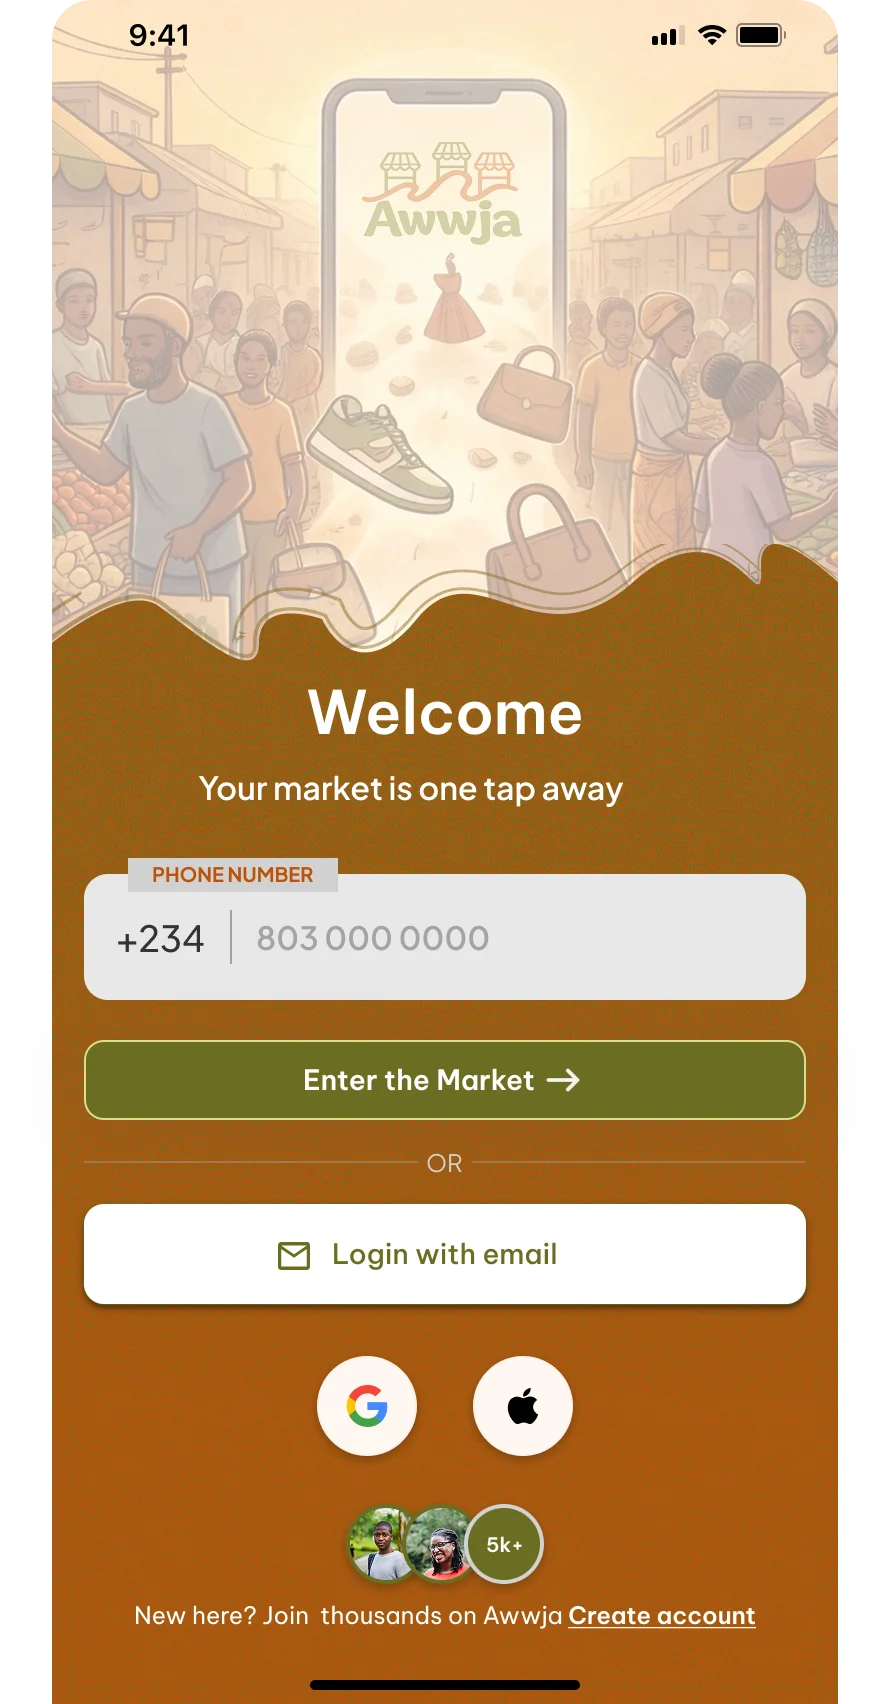
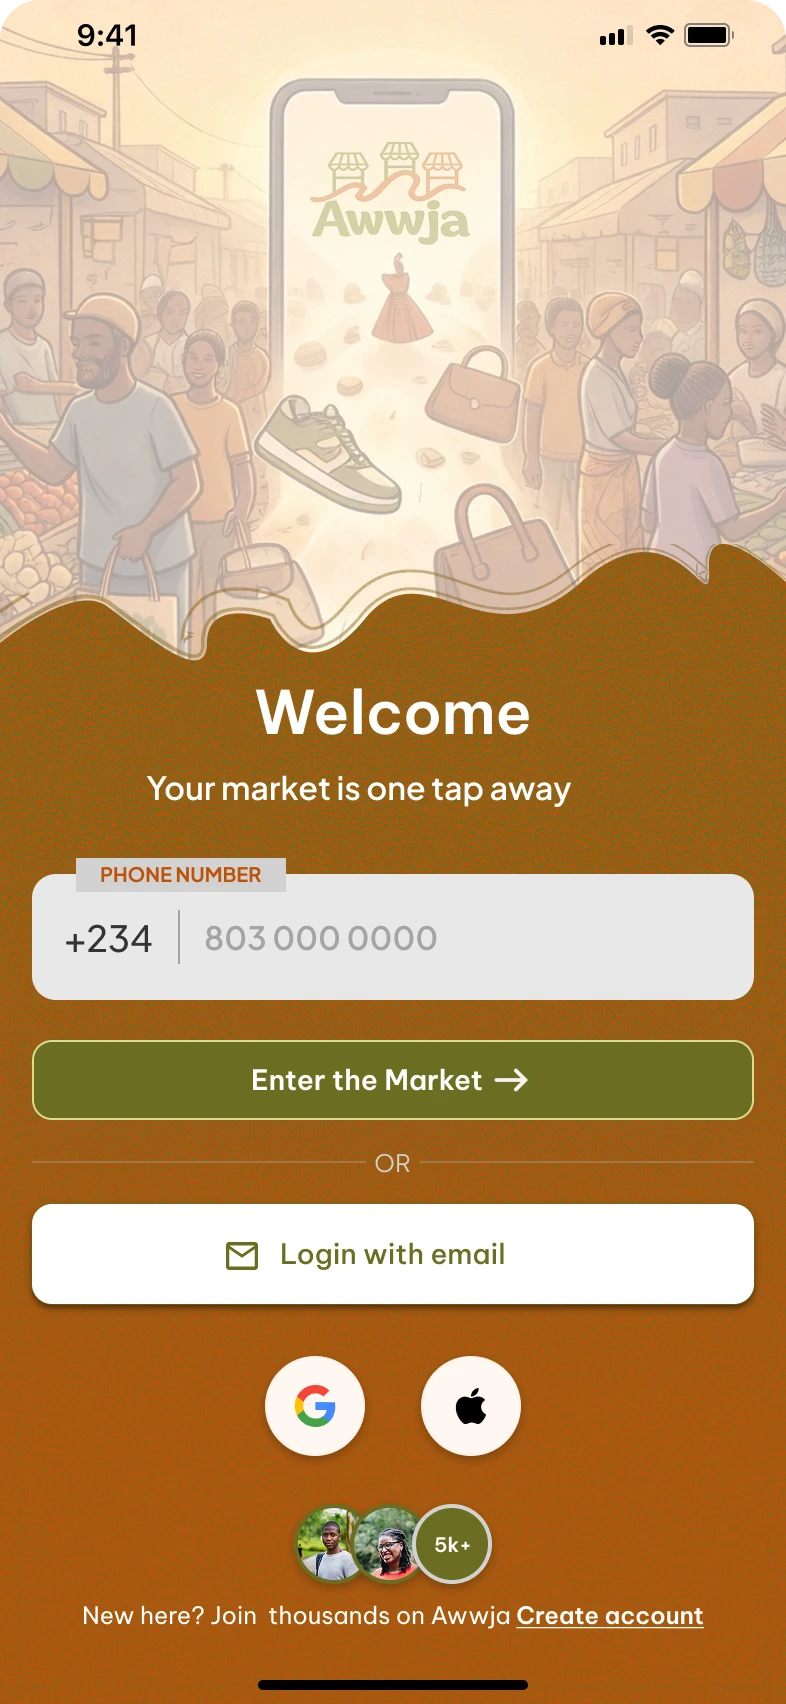
feat: fix awwja-5 crop, add scan2supper before/after evolution, and update about intro headline

diff --git a/src/utils/caseStudies.jsx b/src/utils/caseStudies.jsx
@@ -157,16 +157,21 @@ export const CASE_STUDIES = [
             label: 'Product\u00A0005',
             name: 'Scan2Supper',
             color: '#10B981', // Fresh Culinary Emerald
-            principle: 'Mascot-guided culinary onboarding & zero-stress kitchen entry',
+            principle: 'The Mascot Shift: Transforming sterile utility into warm culinary momentum',
             principles: [
-              { name: 'Friendly Mascot Guidance', detail: 'An expressive chef character acts as a warm emotional anchor throughout the flow, transforming dinner anxiety into an approachable, encouraging culinary journey.' },
-              { name: 'Zero-Waste Camera Scan', detail: 'De-stresses dinner by translating raw fridge ingredients and pantry staples into actionable recipes in seconds.' },
-              { name: 'Frictionless Entry & Guest Access', detail: 'Warm mascot sign-up offering quick Apple/Google authentication alongside 1-tap guest access so users can start cooking immediately.' },
-              { name: 'Celebratory Completion', detail: 'Positive emotional reinforcement on setup completion ("All Set, Foodie!") building immediate cooking excitement.' }
+              { name: 'Friendly Mascot Anchor', detail: 'An expressive, enthusiastic chef mascot replaces cold abstract vectors, serving as a warm emotional guide that dismantles dinner anxiety.' },
+              { name: 'Visual Camera Model (Snap → Match → Cook)', detail: 'De-stresses the kitchen by translating complex computer-vision camera scanning into a simple 3-step tactile diagram.' },
+              { name: 'Frictionless Guest Access', detail: 'Empathetic sign-up architecture where the mascot peeks over the auth sheet, offering 1-tap Apple/Google auth plus instant guest access so users can cook immediately without gatekeeping.' },
+              { name: 'Celebratory Reinforcement ("All Set, Foodie!")', detail: 'Closes onboarding with high-five celebration and enthusiastic positive reinforcement, priming users with confidence before they view their first recipe.' }
             ],
-            insight: 'Scan2Supper introduces an expressive culinary chef mascot that guides users step-by-step through pantry scanning, camera capture, and instant recipe generation. By pairing tactile visual workflows with friendly emotional guidance, the onboarding turns dinner decision fatigue into an engaging, stress-free cooking adventure.',
-            tags: ['Mascot-Led UX', 'Culinary Onboarding', 'AI Recipe Scanner', 'Zero Waste', 'Emotional Design'],
+            insight: 'Scan2Supper originally launched with a conventional, utilitarian onboarding flow—abstract geometric graphics, sterile input cards, and standard feature lists. While mechanically sound, it failed to solve the real psychological barrier: evening decision fatigue. Users staring into an uninspiring fridge after a long workday don\'t need more software forms; they need reassurance and gentle momentum.\n\nTo bridge this emotional gap, we completely reimagined the experience around a friendly, expressive culinary chef mascot. The mascot acts as a reassuring kitchen companion from the very first frame:\n\n• From Abstract Splash to Warm Welcome: Replacing sterile geometric cards with an animated chef bursting from an ingredient box ("Scan. Cook. Enjoy."), framing dinner preparation as delight rather than a chore.\n• From Dense Instructions to a 3-Step Visual Model: Turning complex camera permissions and AI ingredient scanning into an intuitive 3-step diagram ("Snap → Match → Cook") that instantly demystifies the scanner.\n• From Gatekept Sign-Up to Empathetic Access: Rather than blocking users behind rigid credentials, the mascot playfully peeks over the auth sheet, offering 1-tap social login plus instant "Continue as Guest" so hungry cooks can dive in without barrier.\n• Celebratory Finish ("All Set, Foodie!"): Reinforcing setup completion with high-energy positive feedback, igniting cooking excitement before entering the recipe feed.',
+            tags: ['Mascot-Led UX', 'Culinary Onboarding', 'AI Recipe Scanner', 'Emotional Design', 'Before & After'],
             status: 'complete',
+            beforeImage: '/assets/scan2supper-before.webp',
+            afterImage: '/assets/scan2supper-after.webp',
+            comparisonTitle: 'Evolution: Before vs. After (The Mascot Transformation)',
+            beforeCaption: 'Before: Abstract vectors, disconnected recipe book art, and sterile form fields that added mental friction before cooking.',
+            afterCaption: 'After: Mascot-guided culinary companion, intuitive 3-step scan model, 1-tap guest access, and celebratory launch.',
             fullCaseStudyUrl: '#',
             images: [
               '/assets/s2s-1.webp',

diff --git a/src/components/AboutCaseStudyModal.jsx b/src/components/AboutCaseStudyModal.jsx
@@ -485,6 +485,66 @@ export default function AboutCaseStudyModal({ project, onClose }) {
                               </div>
                             )}
 
+                            {/* Before & After Evolution Comparison */}
+                            {screen.beforeImage && screen.afterImage && (
+                              <div className="about-ob-evolution">
+                                <div className="about-ob-evolution-header">
+                                  <span
+                                    className="about-ob-evolution-tag"
+                                    style={{
+                                      color: screen.color || '#10B981',
+                                      borderColor: `${screen.color || '#10B981'}40`,
+                                      background: `${screen.color || '#10B981'}15`
+                                    }}
+                                  >
+                                    DESIGN EVOLUTION
+                                  </span>
+                                  <h4 className="about-ob-evolution-title">
+                                    {screen.comparisonTitle || 'Before vs. After (The Mascot Transformation)'}
+                                  </h4>
+                                </div>
+                                <div className="about-ob-evolution-grid">
+                                  <div className="about-ob-evolution-col before">
+                                    <div className="about-ob-evolution-badge-wrap">
+                                      <span className="about-ob-evolution-badge before">Before: Abstract & Sterile</span>
+                                    </div>
+                                    <div className="about-ob-evolution-frame">
+                                      <img
+                                        src={screen.beforeImage}
+                                        alt={`${screen.name} Before - Abstract UI`}
+                                        loading="lazy"
+                                        decoding="async"
+                                      />
+                                    </div>
+                                    <p className="about-ob-evolution-desc">
+                                      {screen.beforeCaption || 'Sterile inputs and abstract geometric vectors offering zero emotional reassurance to a tired cook.'}
+                                    </p>
+                                  </div>
+                                  <div className="about-ob-evolution-col after">
+                                    <div className="about-ob-evolution-badge-wrap">
+                                      <span
+                                        className="about-ob-evolution-badge after"
+                                        style={{ background: screen.color || '#10B981', color: '#FFFFFF' }}
+                                      >
+                                        After: Mascot-Guided Journey
+                                      </span>
+                                    </div>
+                                    <div className="about-ob-evolution-frame">
+                                      <img
+                                        src={screen.afterImage}
+                                        alt={`${screen.name} After - Mascot-Guided UI`}
+                                        loading="lazy"
+                                        decoding="async"
+                                      />
+                                    </div>
+                                    <p className="about-ob-evolution-desc">
+                                      {screen.afterCaption || 'An expressive culinary chef mascot anchoring the entire experience—from scanner to celebratory start.'}
+                                    </p>
+                                  </div>
+                                </div>
+                              </div>
+                            )}
+
                             {/* Insight & Principles */}
                             {screen.insight && (
                               <p className="about-ob-insight">

diff --git a/src/components/CaseStudyViewer.jsx b/src/components/CaseStudyViewer.jsx
@@ -315,6 +315,66 @@ function OnboardingCollectionBlock({ block }) {
                           </p>
                         )}
 
+                        {/* Before & After Evolution Comparison */}
+                        {screen.beforeImage && screen.afterImage && (
+                          <div className="ob-evolution" style={{ '--flow-color': flowColor }}>
+                            <div className="ob-evolution-header">
+                              <span
+                                className="ob-evolution-tag"
+                                style={{
+                                  color: flowColor,
+                                  borderColor: `${flowColor}40`,
+                                  background: `${flowColor}15`
+                                }}
+                              >
+                                DESIGN EVOLUTION
+                              </span>
+                              <h4 className="ob-evolution-title">
+                                {screen.comparisonTitle || 'Before vs. After (The Mascot Transformation)'}
+                              </h4>
+                            </div>
+                            <div className="ob-evolution-grid">
+                              <div className="ob-evolution-col before">
+                                <div className="ob-evolution-badge-wrap">
+                                  <span className="ob-evolution-badge before">Before: Abstract & Sterile</span>
+                                </div>
+                                <div className="ob-evolution-frame">
+                                  <img
+                                    src={screen.beforeImage}
+                                    alt={`${screen.name} Before - Abstract UI`}
+                                    loading="lazy"
+                                    decoding="async"
+                                  />
+                                </div>
+                                <p className="ob-evolution-desc">
+                                  {screen.beforeCaption || 'Sterile inputs and abstract geometric vectors offering zero emotional reassurance to a tired cook.'}
+                                </p>
+                              </div>
+                              <div className="ob-evolution-col after">
+                                <div className="ob-evolution-badge-wrap">
+                                  <span
+                                    className="ob-evolution-badge after"
+                                    style={{ background: flowColor, color: '#FFFFFF' }}
+                                  >
+                                    After: Mascot-Guided Journey
+                                  </span>
+                                </div>
+                                <div className="ob-evolution-frame">
+                                  <img
+                                    src={screen.afterImage}
+                                    alt={`${screen.name} After - Mascot-Guided UI`}
+                                    loading="lazy"
+                                    decoding="async"
+                                  />
+                                </div>
+                                <p className="ob-evolution-desc">
+                                  {screen.afterCaption || 'An expressive culinary chef mascot anchoring the entire experience—from scanner to celebratory start.'}
+                                </p>
+                              </div>
+                            </div>
+                          </div>
+                        )}
+
                         {/* Expandable Design Principles Accordion */}
                         {screen.principles && screen.principles.length > 0 && (
                           <details className="ob-principles-accordion" style={{ '--flow-color': flowColor }}>

diff --git a/src/styles/about-case-study-modal.css b/src/styles/about-case-study-modal.css
@@ -768,6 +768,105 @@
   line-height: 1.52;
   color: #4A423B;
   margin: 12px 0 0 0;
+  white-space: pre-line;
+}
+
+/* About Modal: Evolution Comparison (Before vs After) */
+.about-ob-evolution {
+  margin-top: 16px;
+  margin-bottom: 8px;
+  padding: 16px 14px;
+  background: #FAF7F2;
+  border: 1px solid rgba(210, 195, 180, 0.5);
+  border-radius: 12px;
+}
+
+.about-ob-evolution-header {
+  display: flex;
+  flex-direction: column;
+  gap: 4px;
+  margin-bottom: 14px;
+}
+
+.about-ob-evolution-tag {
+  align-self: flex-start;
+  font-family: var(--font-mono, monospace);
+  font-size: 0.65rem;
+  letter-spacing: 0.08em;
+  font-weight: 700;
+  text-transform: uppercase;
+  padding: 2px 8px;
+  border-radius: 4px;
+  border: 1px solid;
+}
+
+.about-ob-evolution-title {
+  font-family: var(--font-heading, serif);
+  font-size: 0.95rem;
+  color: #1A1715;
+  margin: 0;
+  font-weight: 700;
+}
+
+.about-ob-evolution-grid {
+  display: grid;
+  grid-template-columns: 1fr 1fr;
+  gap: 14px;
+}
+
+@media (max-width: 600px) {
+  .about-ob-evolution-grid {
+    grid-template-columns: 1fr;
+    gap: 16px;
+  }
+}
+
+.about-ob-evolution-col {
+  display: flex;
+  flex-direction: column;
+  gap: 8px;
+}
+
+.about-ob-evolution-badge-wrap {
+  display: flex;
+}
+
+.about-ob-evolution-badge {
+  font-family: var(--font-mono, monospace);
+  font-size: 0.68rem;
+  font-weight: 600;
+  letter-spacing: 0.04em;
+  text-transform: uppercase;
+  padding: 3px 9px;
+  border-radius: 6px;
+}
+
+.about-ob-evolution-badge.before {
+  background: rgba(100, 100, 100, 0.12);
+  color: #554D45;
+  border: 1px solid rgba(100, 100, 100, 0.2);
+}
+
+.about-ob-evolution-frame {
+  border-radius: 8px;
+  overflow: hidden;
+  border: 1px solid rgba(0, 0, 0, 0.1);
+  box-shadow: 0 4px 14px rgba(0, 0, 0, 0.08);
+  background: #000;
+}
+
+.about-ob-evolution-frame img {
+  width: 100%;
+  height: auto;
+  display: block;
+}
+
+.about-ob-evolution-desc {
+  font-family: var(--font-body, sans-serif);
+  font-size: 0.74rem;
+  line-height: 1.45;
+  color: #554D45;
+  margin: 0;
 }
 
 .about-ob-principles {

diff --git a/src/styles/caseStudy.css b/src/styles/caseStudy.css
@@ -1614,6 +1614,103 @@
   line-height: 1.65;
   color: var(--text-secondary);
   margin: 0;
+  white-space: pre-line;
+}
+
+/* Evolution Comparison (Before vs After) */
+.ob-evolution {
+  margin-top: 18px;
+  margin-bottom: 12px;
+  padding: 20px;
+  background: rgba(255, 255, 255, 0.025);
+  border: 1px solid rgba(255, 255, 255, 0.08);
+  border-radius: 16px;
+}
+
+.ob-evolution-header {
+  display: flex;
+  flex-direction: column;
+  gap: 6px;
+  margin-bottom: 16px;
+}
+
+.ob-evolution-tag {
+  align-self: flex-start;
+  font-family: var(--font-mono, monospace);
+  font-size: 0.7rem;
+  letter-spacing: 0.08em;
+  font-weight: 700;
+  text-transform: uppercase;
+  padding: 3px 10px;
+  border-radius: 6px;
+  border: 1px solid;
+}
+
+.ob-evolution-title {
+  font-size: 1.05rem;
+  color: var(--text-primary, #fff);
+  margin: 0;
+  font-weight: 600;
+}
+
+.ob-evolution-grid {
+  display: grid;
+  grid-template-columns: 1fr 1fr;
+  gap: 16px;
+}
+
+@media (max-width: 680px) {
+  .ob-evolution-grid {
+    grid-template-columns: 1fr;
+    gap: 18px;
+  }
+}
+
+.ob-evolution-col {
+  display: flex;
+  flex-direction: column;
+  gap: 10px;
+}
+
+.ob-evolution-badge-wrap {
+  display: flex;
+}
+
+.ob-evolution-badge {
+  font-family: var(--font-mono, monospace);
+  font-size: 0.72rem;
+  font-weight: 600;
+  letter-spacing: 0.04em;
+  text-transform: uppercase;
+  padding: 4px 10px;
+  border-radius: 6px;
+}
+
+.ob-evolution-badge.before {
+  background: rgba(255, 255, 255, 0.08);
+  color: rgba(255, 255, 255, 0.7);
+  border: 1px solid rgba(255, 255, 255, 0.12);
+}
+
+.ob-evolution-frame {
+  border-radius: 12px;
+  overflow: hidden;
+  border: 1px solid rgba(255, 255, 255, 0.1);
+  box-shadow: 0 6px 20px rgba(0, 0, 0, 0.4);
+  background: #000;
+}
+
+.ob-evolution-frame img {
+  width: 100%;
+  height: auto;
+  display: block;
+}
+
+.ob-evolution-desc {
+  font-size: 0.82rem;
+  line-height: 1.5;
+  color: var(--text-secondary, rgba(255, 255, 255, 0.65));
+  margin: 0;
 }
 
 /* Expandable Principles Accordion */

diff --git a/src/components/AboutCreator.jsx b/src/components/AboutCreator.jsx
@@ -375,6 +375,10 @@ export default function AboutCreator({ onBack }) {
 
               <div className="about-hero-intro-group">
                 <p className="about-hero-intro">
+                  <strong>I'm the designer you go to when you want something uniquely yours.</strong>
+                </p>
+
+                <p className="about-hero-intro">
                   I’ve always been interested in what happens beneath the surface: the thought behind things, the reason one experience stays with you while another disappears the moment you leave, the strange little gap between what is intended and what another person actually experiences.
                 </p>
 

diff --git a/src/styles/about-creator.css b/src/styles/about-creator.css
@@ -220,6 +220,12 @@
   margin: 0;
 }
 
+.about-hero-intro strong {
+  font-weight: 700;
+  color: #FAF7F2;
+  letter-spacing: -0.01em;
+}
+
 /* Tactile Paper Slip Note for Signature Clause */
 .about-hero-paper-slip {
   position: relative;
